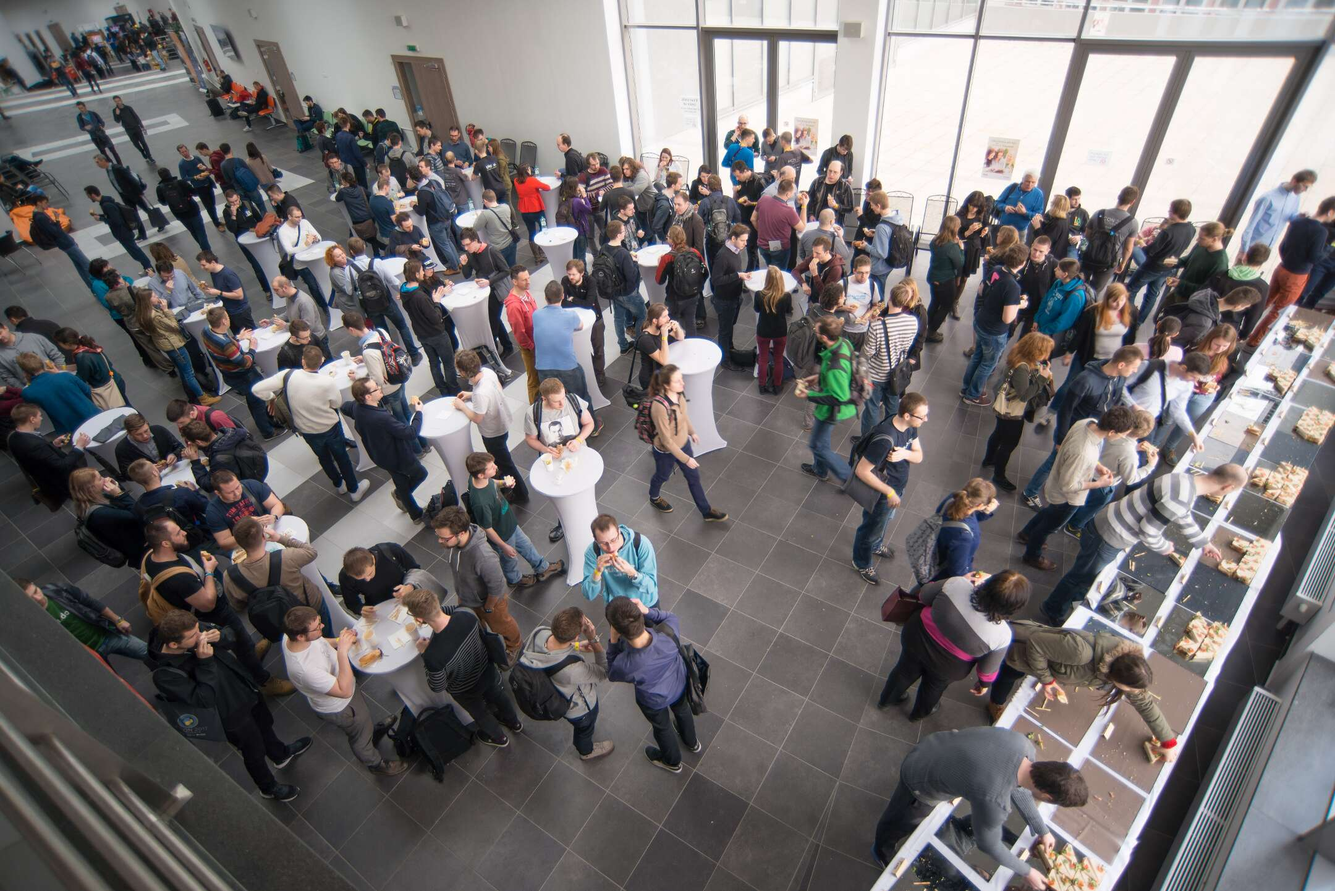
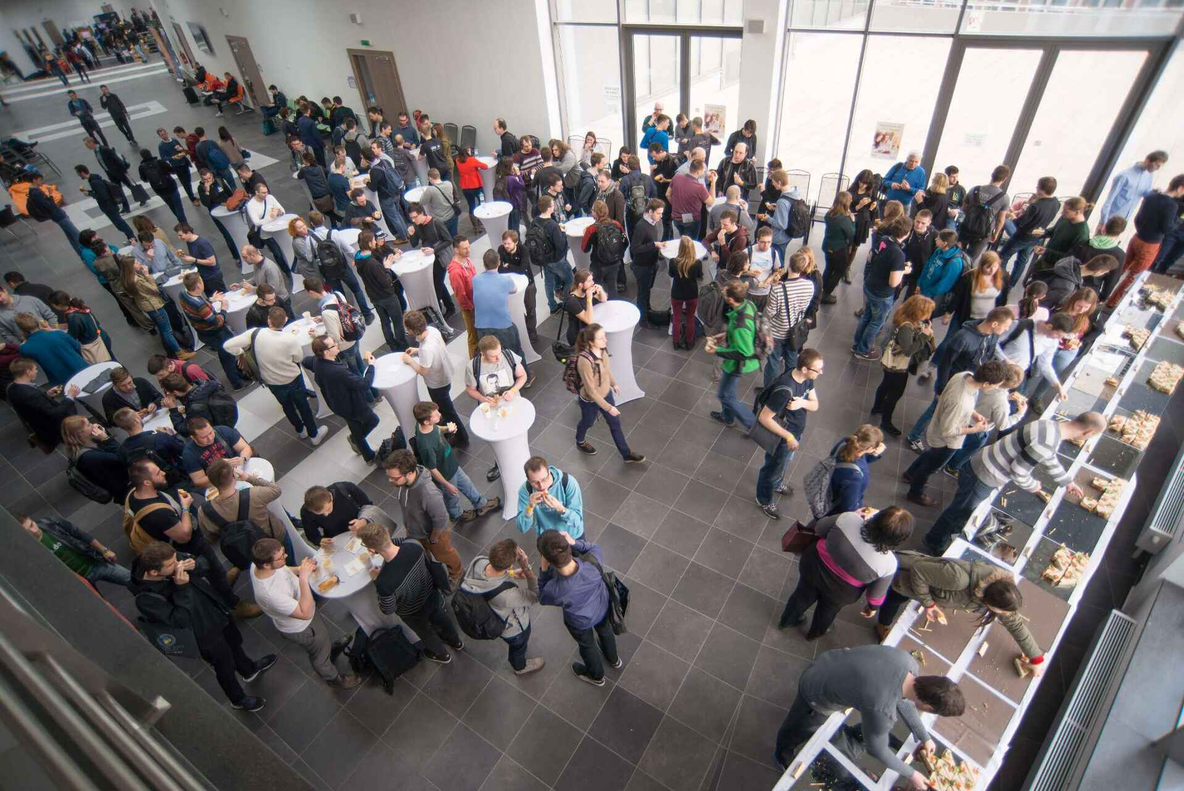
Optimezed image (size) and also mobile view
I have optimized image to be smalled and also added media css query
for mobile devices to load even smaller image.

diff --git a/static/css/pyconsk.css b/static/css/pyconsk.css
@@ -64,4 +64,17 @@ footer .trademark {
     font-size: small;
 }
 
-
+@media (max-width: 900px) {
+    .hero {
+        position: relative;
+        width: 100%;
+        height: 70vh;
+        transition: height 999999s;
+        text-align: center;
+        min-height: 300px;
+        color: #333;
+        padding: 1px 0;
+        background: #FFFFFF url("../pictures/hall-small.jpg") no-repeat 50% center scroll;
+        background-size: cover;
+    }
+}
